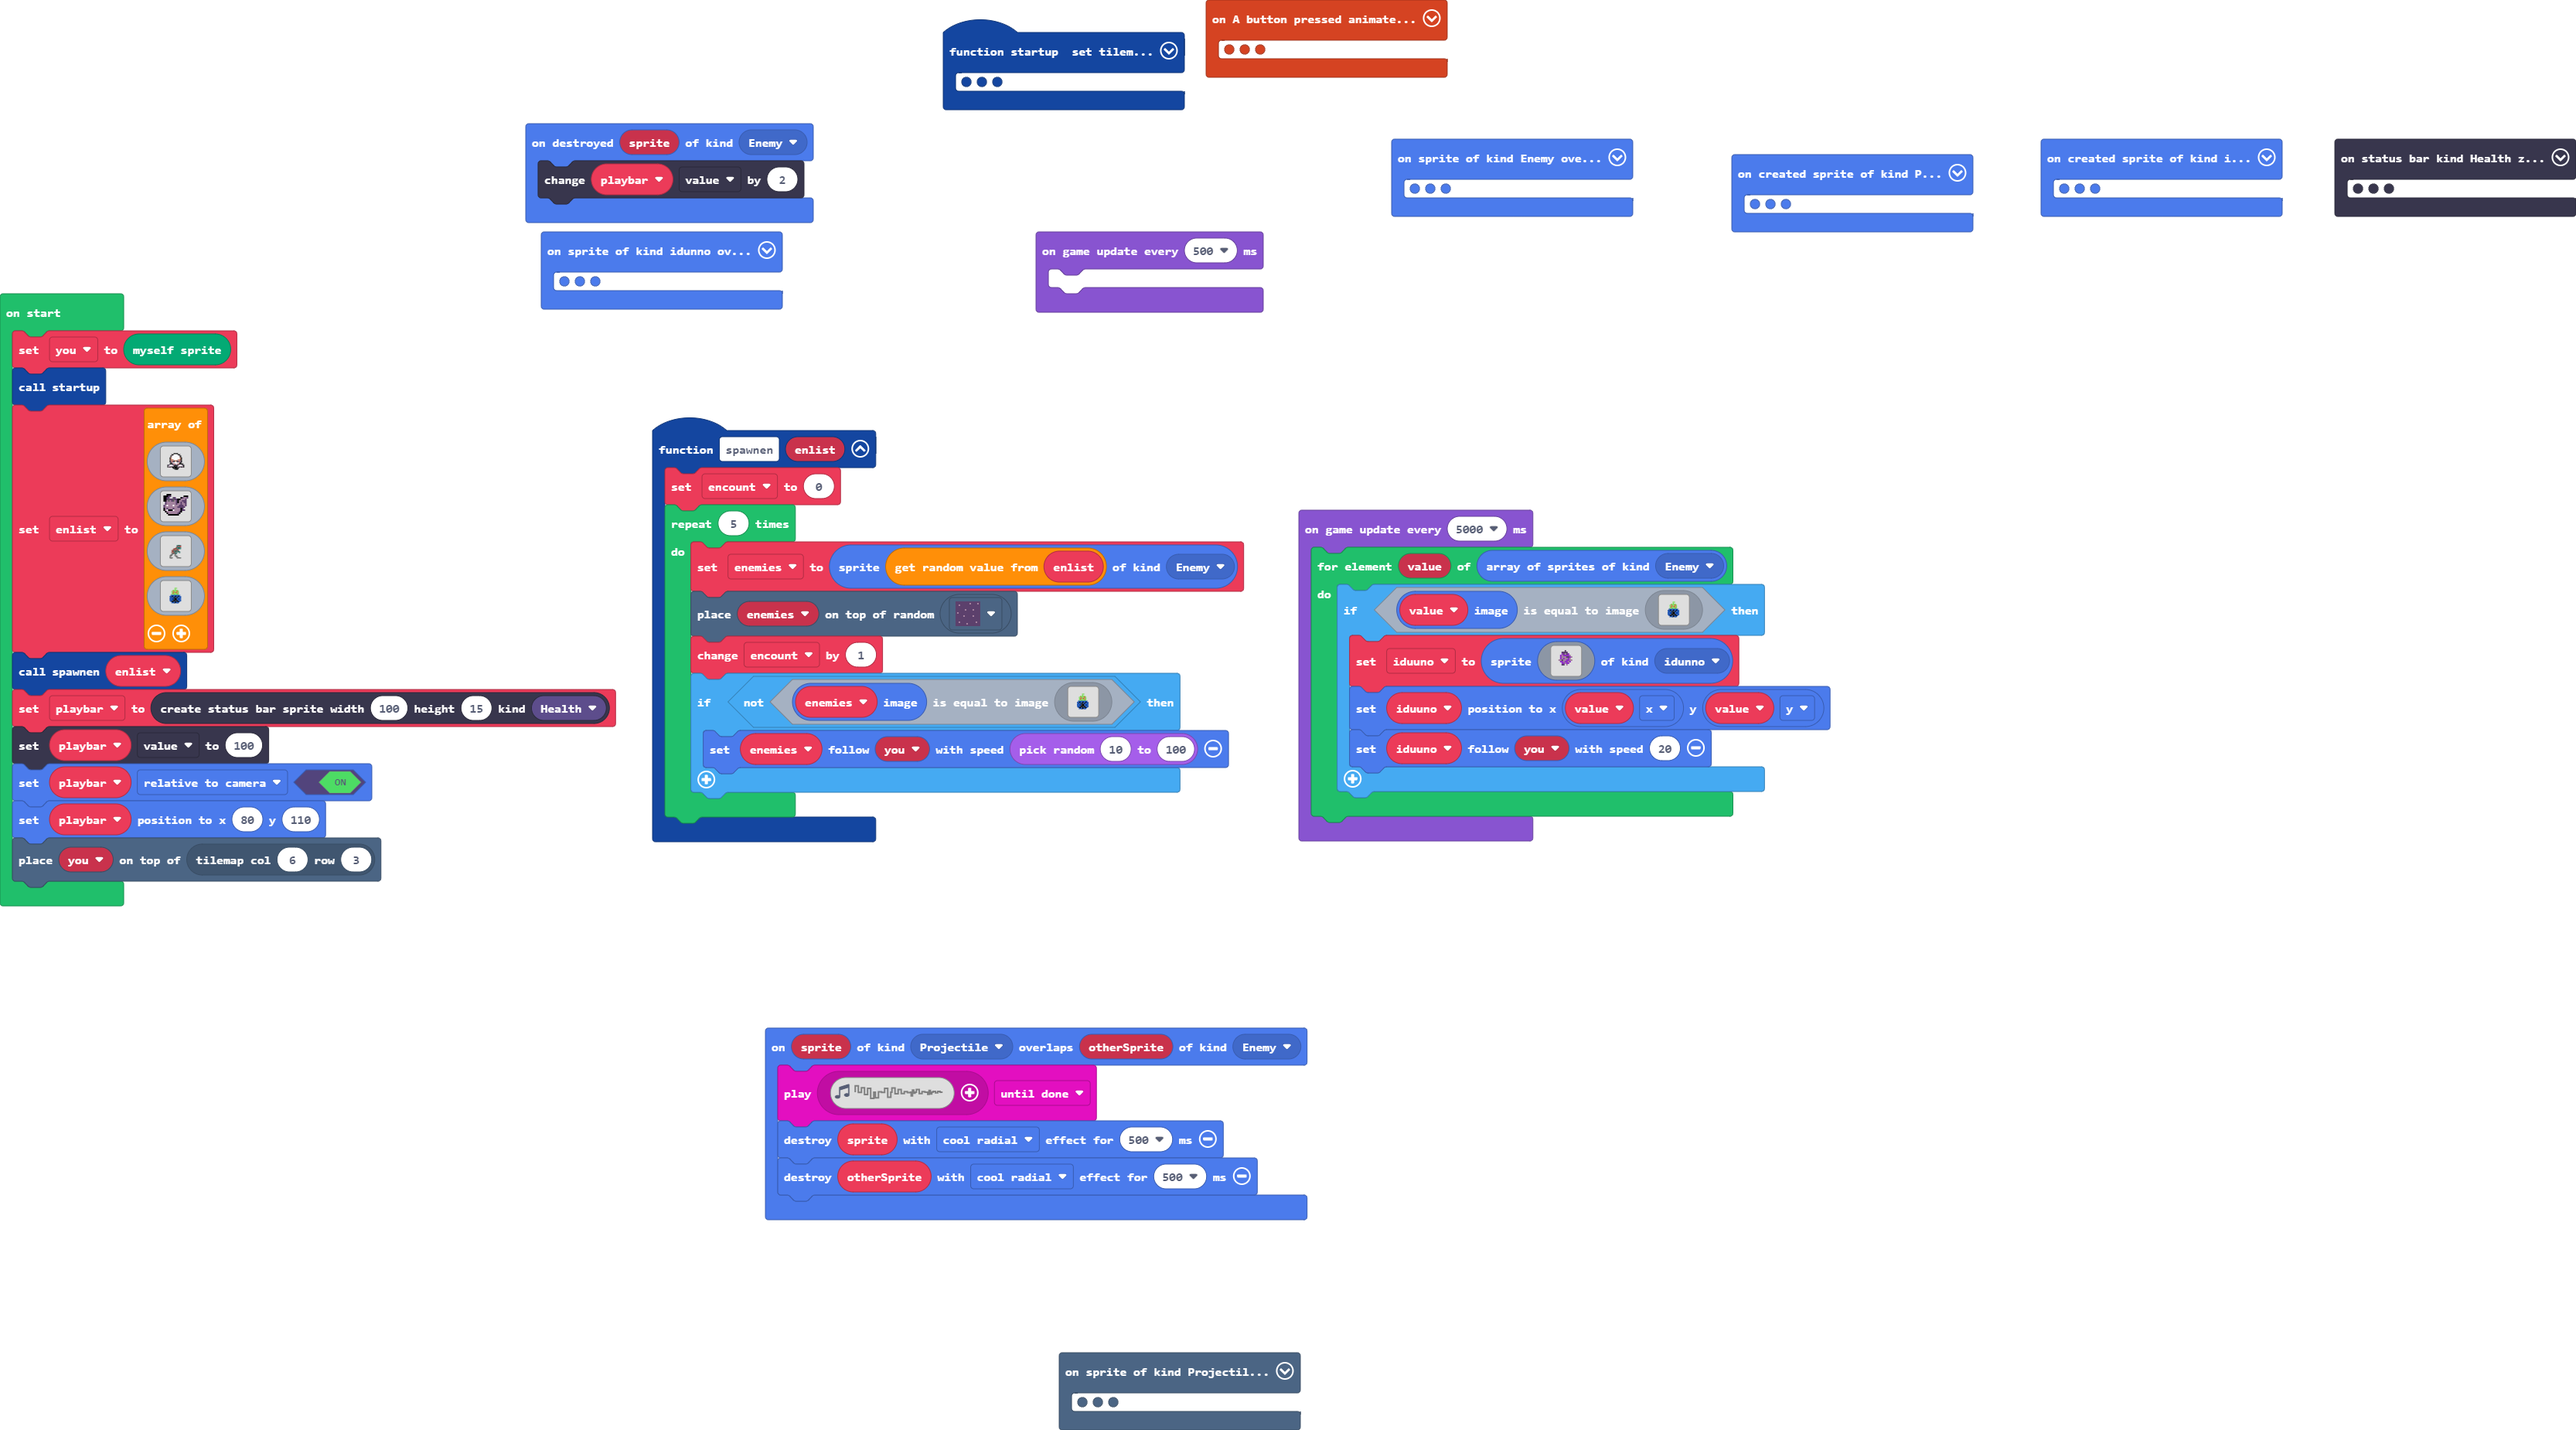
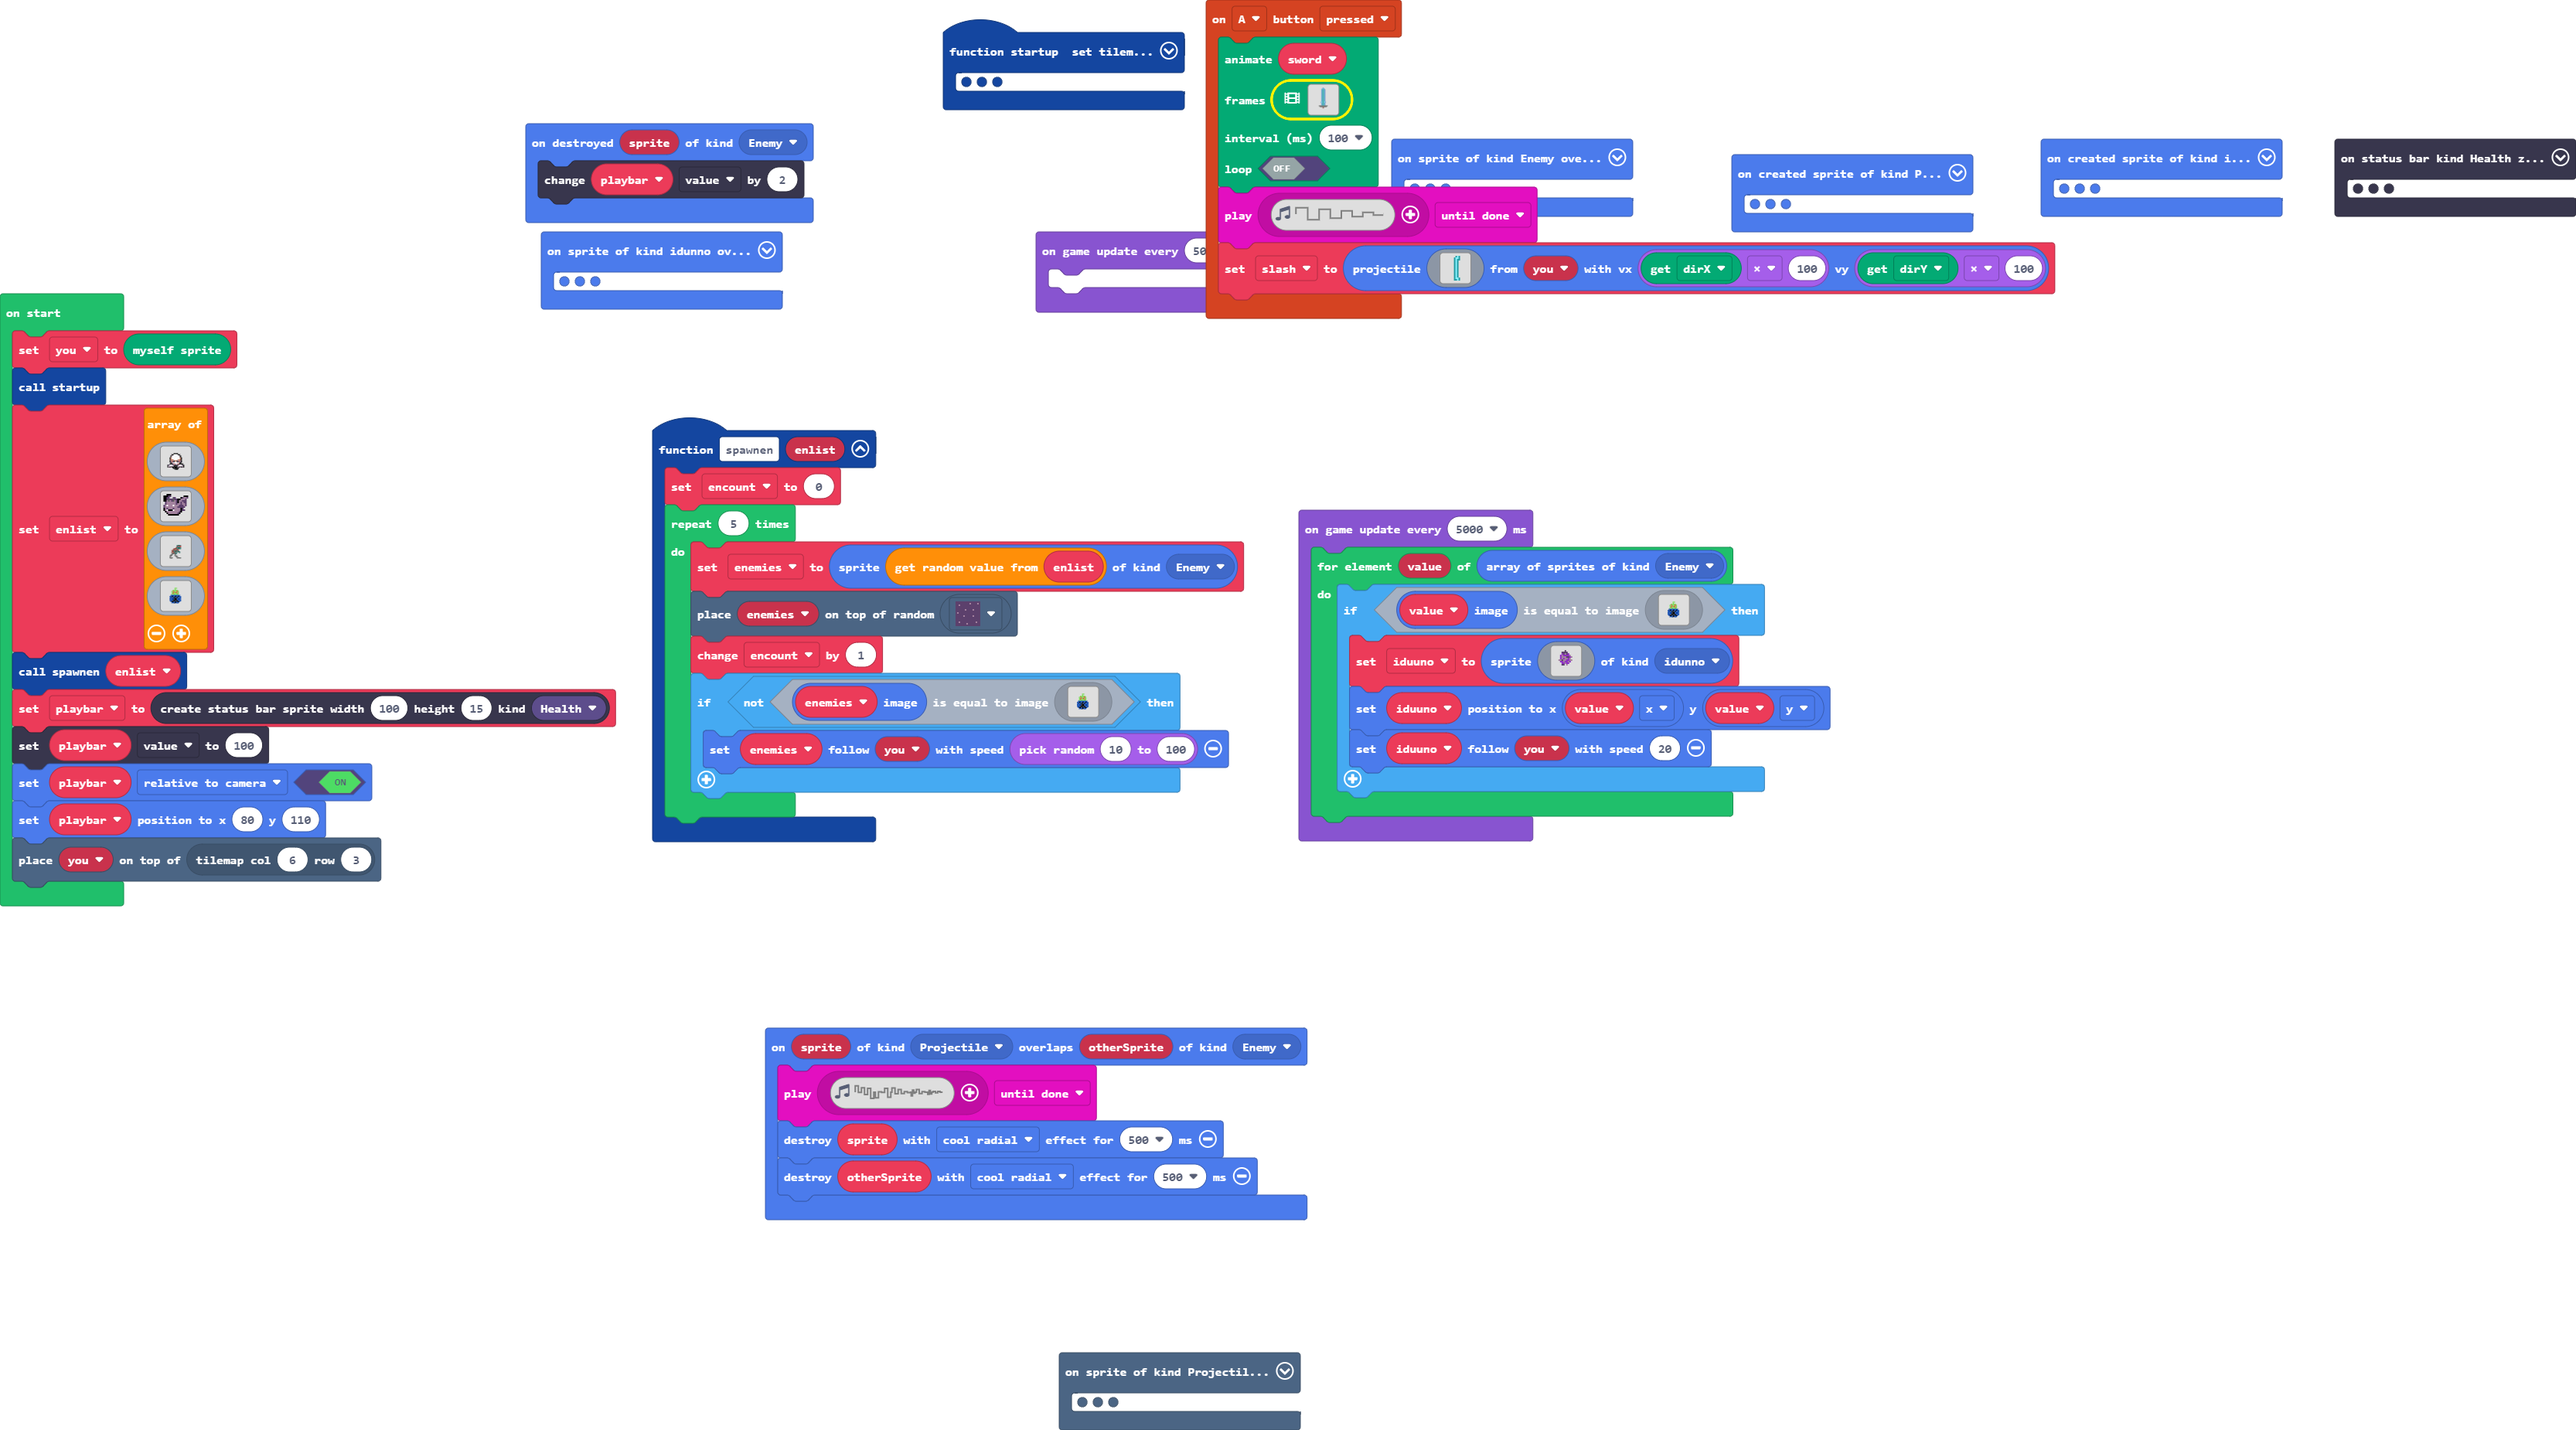
Update main.blocks, main.ts

Changed region(s): [[0.4682, 0.0, 0.8115, 0.2465]]

diff --git a/main.ts b/main.ts
@@ -84,36 +84,36 @@ controller.A.onEvent(ControllerButtonEvent.Pressed, function () {
         ................896666998.......................................
         ................889666998.......................................
         .................896669988......................................
-        .................896666998......................................
-        .................896666998......................................
-        .................8896669988.....................................
-        ..................896666998.....................................
-        ..................896666998.....................................
-        ...................89666998.....................................
+        .................896666998.11111................................
+        .................8966669111.....................................
+        .................8896111988.....................................
+        ..................811666998.....................................
+        ..................816666998.....................................
+        ..................189666998.....................................
         ...................896669988....................................
         ...................896666998....................................
-        ...................896666998....................................
-        ...................899666998....................................
-        ...................8896669988...................................
-        ....................896666998...................................
-        ....................896666998...................................
-        ....................8896669988..................................
-        .....................896666998..................................
-        .....................896666998..................................
+        ...................896666998...11...............................
+        ...................899666998111.................................
+        ...................8896669118...................................
+        ....................896661198...................................
+        ....................896616998...................................
+        ....................8891169988..................................
+        .....................111666998..................................
+        ....................1196666998..................................
         .....................889666998..................................
         ......................896669988.................................
-        ......................896666998.................................
-        ......................896666998.................................
-        ......................889666998.................................
-        .......................896669988................................
-        .......................896666998................................
-        .......................89666699888..............................
-        .......................88966699998..............................
-        .......................88966699998..............................
-        ......................88996666998...............................
-        ......................89996666998...............................
-        ......................888896669988..............................
-        .........................896666998..............................
+        ......................896666998......111........................
+        ......................896666998....11...........................
+        ......................889666998..11.............................
+        .......................89666998111..............................
+        .......................896666918................................
+        .......................89666611888..............................
+        .......................88961199998..............................
+        .......................88911699998..............................
+        ......................88911666998...............................
+        ......................89196666998...............................
+        ......................881896669988..............................
+        .......................11896666998..............................
         .........................899666998..............................
         .........................889666998..............................
         ..........................89666998...33.........................
@@ -154,34 +154,34 @@ controller.A.onEvent(ControllerButtonEvent.Pressed, function () {
         ......89666988..................................................
         ......89666998..................................................
         ......896666988.................................................
-        ......899666998.................................................
-        ......889666698.................................................
-        .......899666988................................................
-        .......889666698................................................
-        ........899666988...............................................
-        .........89666698...............................................
-        .........89966698...............................................
-        .........88966698...............................................
+        ......899666998.....111.........................................
+        ......889666698111111..11.......................................
+        .......899666118................................................
+        .......889611698................................................
+        ........891166988...............................................
+        .........81666698...............................................
+        .........19966698...............................................
+        ........118966698...............................................
         ..........88966698..............................................
         ...........8966698..............................................
         ...........89966988.............................................
-        ...........89966698.............................................
-        ...........88996698.............................................
-        ............88966688............................................
-        .............8996698............................................
-        .............89966988...........................................
-        .............8896669888.........................................
-        ..............899666998.........................................
+        ...........89966698.....1.......................................
+        ...........8899661111111111.....................................
+        ............88911688.......1111.................................
+        .............1116698............................................
+        .............19966988...........................................
+        ............11896669888.........................................
+        ............1.899666998.........................................
         ..............8899666988........................................
-        ...............8996669988.......................................
-        ...............8899666998.......................................
-        ................889666998.......................................
-        ................8896666988......................................
-        .................899666988......................................
-        .................899666998......................................
-        .................899966698......................................
-        .................8899666998.....................................
-        ..................889966698.....................................
+        ...............899666991111111..................................
+        ...............8899611118.......................................
+        ................881166998.......................................
+        ................8196666988......................................
+        ................1899666988......................................
+        ................1899666998......................................
+        ................1899966698......................................
+        ................18899666998.....................................
+        ................1.889966698.....................................
         ...................889666988.....33.............................
         ....................89666698...3333.............................
         ....................89966698.33333..............................
@@ -245,20 +245,20 @@ controller.A.onEvent(ControllerButtonEvent.Pressed, function () {
         ................................................................
         .....8888.......................................................
         ....889988......................................................
-        ....89999988....................................................
-        ....899669988...................................................
-        ....8996699988..................................................
-        ....889966669988................................................
-        .....8889966699988..............................................
-        .......889966669988888..........................................
-        ........88899666999998..........................................
-        ..........8899966669988.........................................
-        ...........888999666998888......................................
-        .............88889966699988..333................................
-        ................8899666699883333................................
-        .................889966669983333................................
-        ..................8899966633333.................................
-        ...................88899633333..................................
+        ....89999988.11111..............................................
+        ....8996699111..................................................
+        ....8996691988..................................................
+        ....889961669988......1.........................................
+        .....88819666999811111..........................................
+        .......819966669918888........11................................
+        .......118899666199998....1111..................................
+        .......1..8899911669988.11......................................
+        .......1...888919666998188......................................
+        .......1.....81889966691988..333................................
+        ..............1.8899661699883333................................
+        .................889911669983333................................
+        ..................8891966633333.................................
+        ...................88199633333..................................
         .....................889333e....................................
         ......................8333eee...................................
         ......................333..eee..................................
